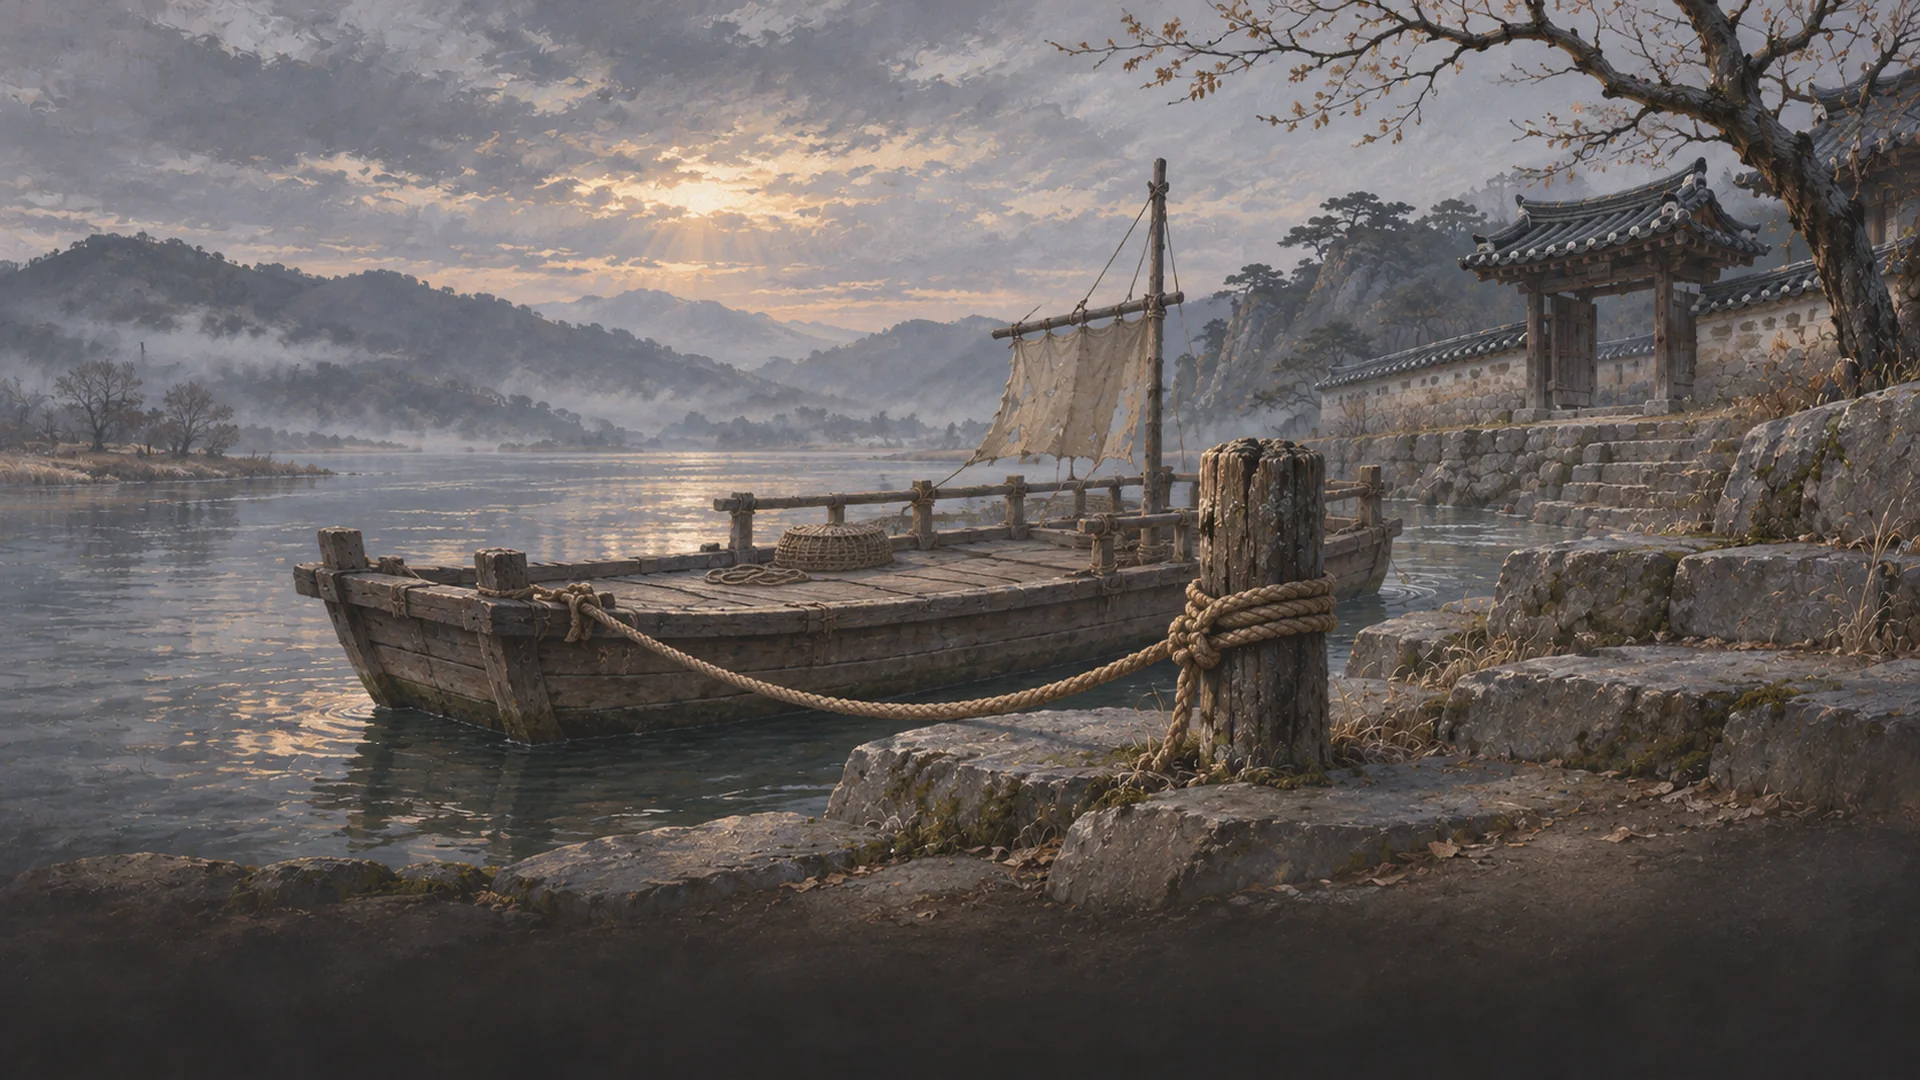
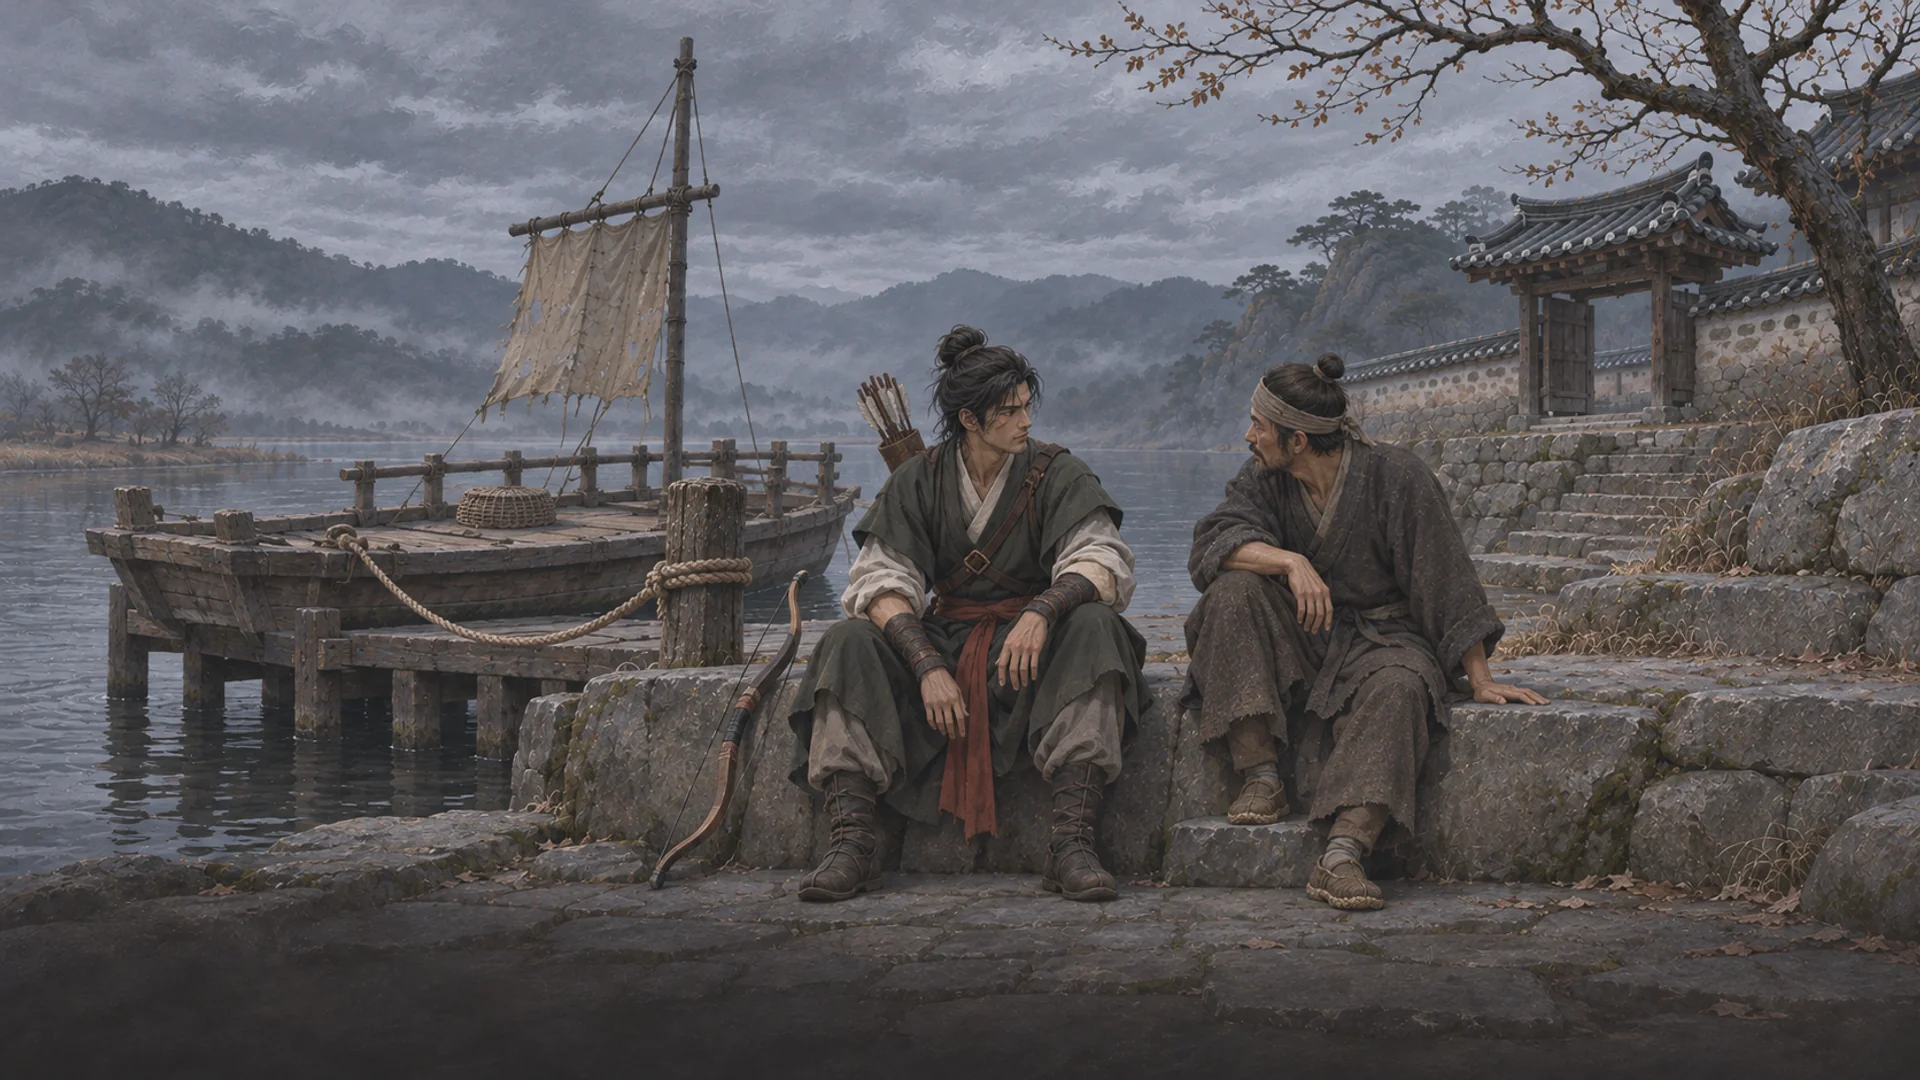
Revise campaign still scale, staging, and narration

diff --git a/shared/runtime/act-endings.js b/shared/runtime/act-endings.js
@@ -3,6 +3,7 @@ const esc=s=>String(s??'').replace(/[&<>"']/g,c=>({'&':'&amp;','<':'&lt;','>':'&
 const stamp=id=>'act-ending-v1:'+id;
 const neutralContent=id=>G.HonroCampaignStills?.hasEnding(id)&&G.HONRO_ACT_ENDINGS[id]?{...G.HONRO_ACT_ENDINGS[id],lines:[]}:null;
 function content(id,profile,prospective=false){
+ id=Number(id);
  const reviewed=G.HonroAct23V4ReviewedChapters?.endingContent(profile,id,prospective);
  if(reviewed===null)return (prospective||profile?.cleared?.[id])?neutralContent(id):null;
  return reviewed===undefined?(G.HonroAct23V4Chapter30Reviewed?.endingContent({profile},id,G.HONRO_ACT_ENDINGS[id])??G.HONRO_ACT_ENDINGS[id]):reviewed;

diff --git a/game/docs/CAMPAIGN_STILLS_20261126.md b/game/docs/CAMPAIGN_STILLS_20261126.md
@@ -30,3 +30,44 @@
 검수 진입점은 `node --test tests/campaign-stills.mjs`와 빌드 후 `python tests/campaign-stills-browser.py`다. 테스트 입력은 구간 진입과 완료·미리보기의 저장 계약을 확인하는 독립 저장이며, 캠페인 전투 수동 완주나 플레이 난이도 검수와 구분한다.
 
 통합 빌드에서 실제 Chromium으로 신규 여정과 회전, 1~5막 15컷의 표시와 디코딩, 디버그 복귀, 정상 완료의 진행 위치 복원, 여정첩 다시보기의 비저장 동작을 확인했다. 기존 6막의 별도 미리보기도 그대로 열린다. 신규 30개 그림의 전체 전송량은 가로 약 3.5 MB, 세로 약 3.3 MB이며 각 장면을 열기 전에는 해당 시퀀스 그림을 요청하지 않는다.
+
+## 2026-11-27 부분 개정
+
+| 컷 | 화면에서 읽어야 할 행동 | 조명 |
+|---|---|---|
+| 오프닝 3 | 빈 나룻배 곁에서 홍만의 이름을 듣는 설오 | 구름 낀 해 질 무렵, 차가운 물빛 |
+| 1막 1 | 고목 아래 소단의 손에서 풀린 붉은 줄과 양옆 받이진 | 청회색 마당, 손과 줄에 작은 빛 |
+| 1막 3 | 방울을 거둔 소단과 북쪽 산길로 앞서가는 설오 | 짙은 산안개와 낮은 빛 |
+| 2막 1 | 공명을 누르는 담허와 받침돌로 내려오는 대종 | 녹청빛 종, 손과 돌의 미광 |
+| 3막 1 | 나루를 지킨 뒤 강의 굽이와 운송로를 맞춰 보는 설오 | 잿빛 강, 손에 든 기록에만 하이라이트 |
+| 3막 3 | 끊긴 길에서 발걸음을 돌려 옛 장례길로 향하는 일행 | 보랏빛 회색 강과 그늘진 비탈 |
+| 4막 1 | 포구에서 부상자를 부축해 배에서 내리는 사람들 | 푸른 해무, 작은 등불 |
+| 5막 2 | 사라진 길을 돌아보는 설오와 암벽 쪽으로 가는 동행 | 먹빛 암반과 낮게 깔린 자주빛 안개 |
+
+6막 포구 컷은 붓질과 질감, 승인 초상은 인물 식별, 기존 컷은 장소의 참조로
+사용했다. 가로 1920×1080과 세로 1080×1920을 별도 구도로 만들고 자막 영역을
+비워 두었다. 1~4막 첫 컷은 3컷 재생에서만 새 그림을 선택한다. 기존 한 장 카드의
+자산은 그대로 남고, 5막 마지막 산문과 6막 최종 엔딩의 아홉 스틸컷 및 별도
+마지막 컷도 보존한다.
+
+첫 시안 이후 인물과 주변 사물의 크기, 보행 자세를 교정했다. 같은 깊이의
+문틀·돌계단·뱃전을 기준으로 인물 크기를 대조한다. 오르는 컷은 디딘 발
+아래에 지지면을 보이고, 뒤를 보는 설오는 두 발을 지면에 둔다. 포구는
+배와 부두에 서거나 앉은 사람의 지지점이 보이는 순간을 택한다. 가로와
+세로 모두 실제 자막을 얹어 손동작과 발이 남는지 확인한다.
+
+자막은 이동 동기와 사건의 결과를 중심으로 교정한다. 컷 ID, 역할, 기본 자막 수,
+읽기 시간 규칙, 이어하기 위치와 2·3막의 확인된 증언 조건은 유지한다. 홍만의 행방,
+확인하지 않은 증언, 무명사 내부는 예고에 넣지 않는다.
+
+Chromium으로 기준 `e2dbb22b`와 개정본을 각각 열어 모든 교체 컷의 가로·세로
+구도와 자막을 같은 크기로 비교했다. 기준판의 2막 엔딩 미리보기에서는 HTML
+`data-id`가 문자열로 들어올 때 `endingRows`를 읽지 못하는 오류도 재현됐다.
+공통 엔딩 조회에서 장 번호를 숫자로 맞추고 증언 허용 조건은 유지했다.
+수정 후 `npm run build`, `node --test tests/campaign-stills.mjs
+tools/act6-ending-v2/cues.test.mjs`, `python tests/campaign-stills-browser.py`가
+통과했다. 신규 오프닝, 1~5막 미리보기의 회전과 복귀, 완료 후 이어가기,
+여정첩 다시보기를 확인했다. 빌드에서 6막 아홉 컷과 별도 마지막 컷의
+가로·세로 20개 파일 해시도 기준과 일치했다.
+기존 `act23-v4-reviewed20-presentation.mjs`의 옛 클리어 쉼터 단언은
+기준판에서도 실패한다. 개정 범위의 검수는 스틸컷 재생과 기록 계약에 한정했다.
